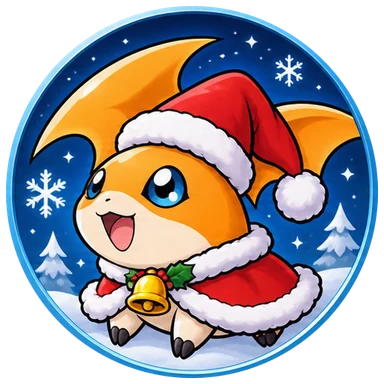
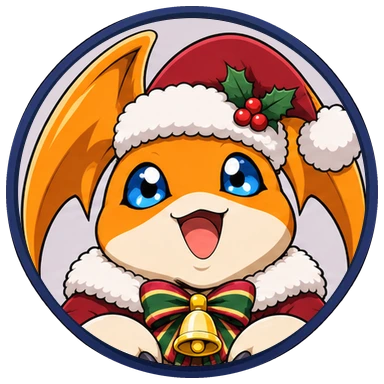
Publica los iconos de Papá Noel

diff --git a/index.html b/index.html
@@ -14869,7 +14869,7 @@ const PLAYER_ICONS = [
   {id:'leomon', name:'Leomon'}, {id:'hagurumon', name:'Hagurumon'}, {id:'frigimon', name:'Frigimon'}, {id:'wizardmon', name:'Wizardmon'}
 ].map(x => ({...x, src: playerIconSrc(x.id)}));
 // Iconos de skin: se desbloquean al tener la skin en alguna etapa (los de skins ocultas solo se ven al tenerlas)
-const SKIN_ICON_ART = {galactico:'galaxia', lcd:'lcd-v2', variocolor:'variocolor-v2', reno:'astas-integradas'};
+const SKIN_ICON_ART = {galactico:'galaxia', lcd:'lcd-v2', variocolor:'variocolor-v2', reno:'astas-integradas', festival:'navidad-gabumon'};
 const SKIN_ICONS = [
   {key:'biyomon', skin:'galactico'}, {key:'gomamon', skin:'galactico'},
   {key:'palmon', skin:'galactico'}, {key:'tentomon', skin:'galactico'},
